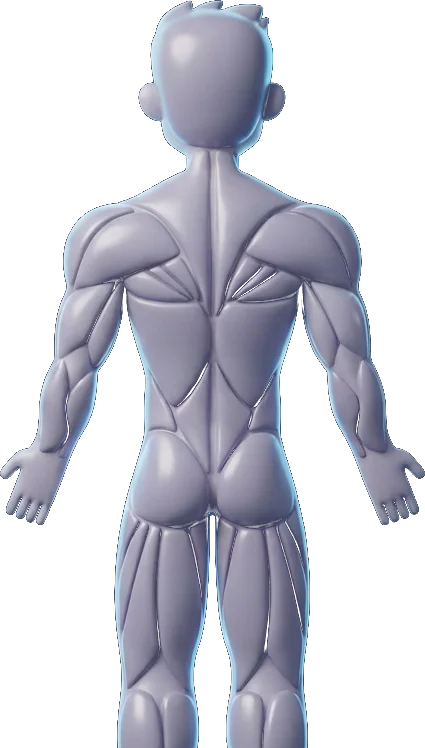
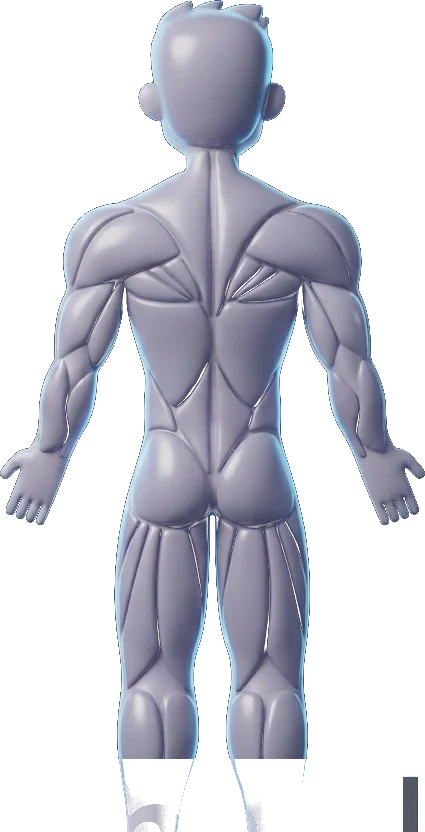
vucut haritasi: figur baldiri icerecek sekilde yeniden kirpildi (832), parlama elipsleri kaslara hizalandi, calf artik gorunur/secilebilir

diff --git a/src/ui/BodyMap.tsx b/src/ui/BodyMap.tsx
@@ -22,26 +22,26 @@ type Region = { g: string; center?: boolean; e: E[] }
 
 // viewBox ön 426×748, arka 425×748. Merkez olmayan elipsler x'=W-cx ile aynalanır.
 const FRONT: Region[] = [
-  { g: 'traps', center: true, e: [[213, 205, 40, 16]] },
-  { g: 'shoulders', e: [[95, 250, 34, 40]] },
-  { g: 'chest', e: [[150, 238, 34, 30], [158, 278, 30, 22]] },
-  { g: 'biceps', e: [[72, 335, 24, 46]] },
-  { g: 'forearms', e: [[48, 445, 20, 44]] },
-  { g: 'abs', center: true, e: [[213, 320, 30, 20], [213, 360, 30, 20], [213, 405, 32, 26]] },
-  { g: 'obliques', e: [[158, 372, 16, 46]] },
-  { g: 'quads', e: [[168, 560, 34, 80]] },
-  { g: 'calves', e: [[150, 700, 22, 40]] },
+  { g: 'traps', center: true, e: [[213, 200, 38, 15]] },
+  { g: 'shoulders', e: [[92, 236, 30, 34]] },
+  { g: 'chest', e: [[152, 252, 30, 26], [160, 290, 26, 20]] },
+  { g: 'biceps', e: [[72, 322, 22, 44]] },
+  { g: 'forearms', e: [[50, 430, 19, 42]] },
+  { g: 'abs', center: true, e: [[213, 312, 28, 18], [213, 352, 28, 18], [213, 394, 30, 24]] },
+  { g: 'obliques', e: [[160, 362, 15, 44]] },
+  { g: 'quads', e: [[168, 548, 33, 80]] },
+  { g: 'calves', e: [[158, 740, 24, 54]] },
 ]
 const BACK: Region[] = [
-  { g: 'traps', center: true, e: [[213, 222, 55, 26], [213, 265, 34, 22]] },
-  { g: 'shoulders', e: [[92, 252, 34, 40]] },
-  { g: 'lats', e: [[150, 300, 40, 56]] },
-  { g: 'triceps', e: [[70, 335, 24, 46]] },
-  { g: 'forearms', e: [[45, 445, 20, 44]] },
-  { g: 'lowerback', center: true, e: [[213, 390, 30, 30]] },
-  { g: 'glutes', e: [[160, 450, 40, 40]] },
-  { g: 'hamstrings', e: [[165, 560, 34, 78]] },
-  { g: 'calves', e: [[150, 700, 22, 40]] },
+  { g: 'traps', center: true, e: [[213, 214, 52, 24], [213, 258, 32, 20]] },
+  { g: 'shoulders', e: [[92, 240, 30, 34]] },
+  { g: 'lats', e: [[152, 296, 38, 54]] },
+  { g: 'triceps', e: [[70, 322, 22, 44]] },
+  { g: 'forearms', e: [[47, 430, 19, 42]] },
+  { g: 'lowerback', center: true, e: [[213, 382, 28, 28]] },
+  { g: 'glutes', e: [[160, 442, 38, 38]] },
+  { g: 'hamstrings', e: [[165, 556, 33, 78]] },
+  { g: 'calves', e: [[158, 740, 24, 54]] },
 ]
 
 function Ellipses({ region, w }: { region: Region; w: number }) {
@@ -76,7 +76,7 @@ function Overlay({
   return (
     <div className="bodyfig">
       <img src={img} alt="" />
-      <svg viewBox={`0 0 ${w} 748`} preserveAspectRatio="xMidYMin meet">
+      <svg viewBox={`0 0 ${w} 832`} preserveAspectRatio="xMidYMin meet">
         <defs>
           <filter id="mglow" x="-40%" y="-40%" width="180%" height="180%">
             <feGaussianBlur stdDeviation="5" />
